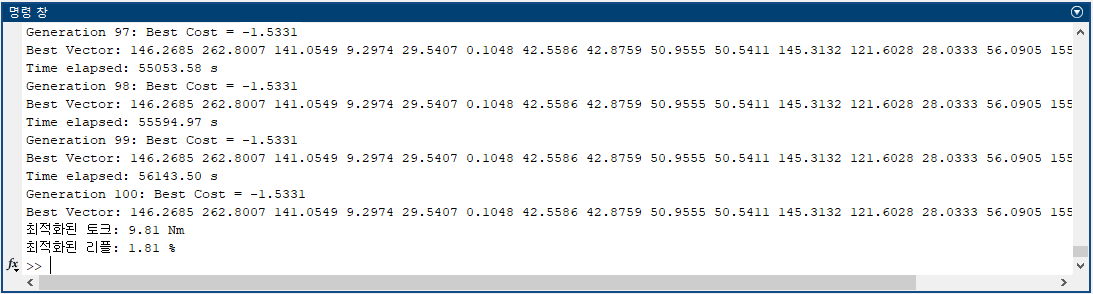
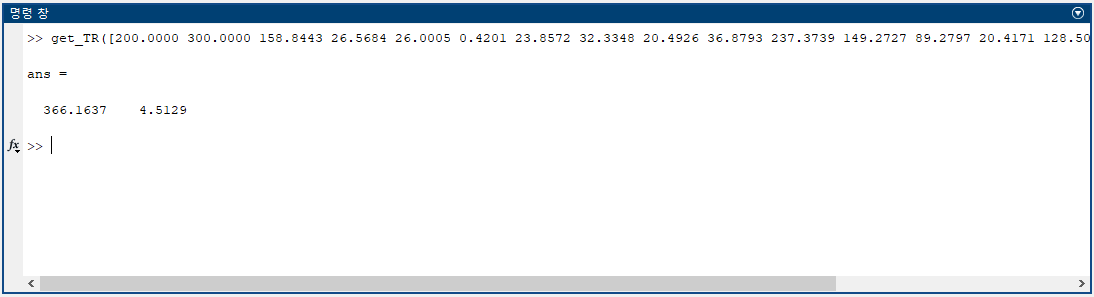
:TADA: Finish. No more update.

diff --git a/get_TR.m b/get_TR.m
@@ -85,7 +85,7 @@ function TR = get_TR(x)
 
         % 변화 없는 변수
         gamma=0; %전류각, SPM은 0도로 고정
-        N=12; %0도부터 360까지 몇번에 걸쳐 회전시킬지
+        N=4; %0도부터 360까지 몇번에 걸쳐 회전시킬지
 
         %%%%%%%%%%%%%%%%%%%%%%%%% 파일 저장 %%%%%%%%%%%%%%%%%%%%%%%%%%%%%%%%%%%%%%
 
@@ -108,7 +108,7 @@ function TR = get_TR(x)
         mi_addboundprop('A_0',0,0,0,0);	%도화지의 태두리 기본 설정
 
         %%%%%%%%%%%%%%%%%%%%%%%%   도화지 설정   %%%%%%%%%%%%%%%%%%%%%%%%%%%%%%%%
-        mi_probdef(0,'millimeters','planar',1e-009,depth,30); % 문제 단위와 형상 설정
+        mi_probdef(0,'millimeters','planar',1e-008,depth,30); % 문제 단위와 형상 설정
 
         square=1000;    % FEMM 도화지 크기
         drawrectangle(-square/2,-square/2,square/2,square/2);
@@ -223,20 +223,21 @@ function TR = get_TR(x)
 
         for i=1:slot_number
             if mod(i, 3)==1
-                add_label(coil_r*cos(pi/2+coil_angle+(slot_angle*(i-1))),coil_r*sin(pi/2+coil_angle+(slot_angle*(i-1))),'a+',0,20); %Coil 물성치
-                add_label(coil_r*cos(pi/2-coil_angle+(slot_angle*(i-1))),coil_r*sin(pi/2-coil_angle+(slot_angle*(i-1))),'a-',0,20); %Coil 물성치
+                add_label(coil_r*cos(pi/2+coil_angle-(slot_angle*(i-1))),coil_r*sin(pi/2+coil_angle-(slot_angle*(i-1))),'a+',0,20); %Coil 물성치
+                add_label(coil_r*cos(pi/2-coil_angle-(slot_angle*(i-1))),coil_r*sin(pi/2-coil_angle-(slot_angle*(i-1))),'a-',0,20); %Coil 물성치
             elseif mod(i, 3)==2
-                add_label(coil_r*cos(pi/2+coil_angle+(slot_angle*(i-1))),coil_r*sin(pi/2+coil_angle+(slot_angle*(i-1))),'b+',0,20); %Coil 물성치
-                add_label(coil_r*cos(pi/2-coil_angle+(slot_angle*(i-1))),coil_r*sin(pi/2-coil_angle+(slot_angle*(i-1))),'b-',0,20); %Coil 물성치
+                add_label(coil_r*cos(pi/2+coil_angle-(slot_angle*(i-1))),coil_r*sin(pi/2+coil_angle-(slot_angle*(i-1))),'b+',0,20); %Coil 물성치
+                add_label(coil_r*cos(pi/2-coil_angle-(slot_angle*(i-1))),coil_r*sin(pi/2-coil_angle-(slot_angle*(i-1))),'b-',0,20); %Coil 물성치
             else
-                add_label(coil_r*cos(pi/2+coil_angle+(slot_angle*(i-1))),coil_r*sin(pi/2+coil_angle+(slot_angle*(i-1))),'c+',0,20); %Coil 물성치
-                add_label(coil_r*cos(pi/2-coil_angle+(slot_angle*(i-1))),coil_r*sin(pi/2-coil_angle+(slot_angle*(i-1))),'c-',0,20); %Coil 물성치
+                add_label(coil_r*cos(pi/2+coil_angle-(slot_angle*(i-1))),coil_r*sin(pi/2+coil_angle-(slot_angle*(i-1))),'c+',0,20); %Coil 물성치
+                add_label(coil_r*cos(pi/2-coil_angle-(slot_angle*(i-1))),coil_r*sin(pi/2-coil_angle-(slot_angle*(i-1))),'c-',0,20); %Coil 물성치
             end
         end
 
         %%%%%%%%%%%%%%%%%%%%%%%%%%% 회전자계 만드는 함수 %%%%%%%%%%%%%%%%%%%%%%%%%%%%
 
-        T_list = []; %토크 결과 저장
+        T = zeros(N, 1);
+        T_list = zeros(N, 1); %토크 결과 저장
         for kk=1:N
 
             Jd=-J_rated*sin(gamma); %d축 전류밀도
@@ -264,7 +265,10 @@ function TR = get_TR(x)
             mo_groupselectblock(10); %로터 선택
 
             T(kk) = mo_blockintegral(22); %로터 토크 불러오기
-            T_list = [T_list; T(kk)]; %토크 결과 저장
+            if (kk > 1) && (T(kk) * T(kk-1) < 0) %토크가 앞뒤로 출렁이면
+                error('No negative torque.');
+                break;
+            end
 
             mo_close; %해석 결과 닫기, 설정창으로 복귀
 
@@ -275,17 +279,27 @@ function TR = get_TR(x)
 
         end
 
-        mean_T=mean(T_list); %로터 토크 평균값
-        R=100*(max(T_list)-min(T_list))/mean_T; %리플 계산
+        mean_T=mean(T); %로터 토크 평균값
+        R=100*(max(T)-min(T))/mean_T; %리플 계산
 
         TR=[mean_T, R]; % [T R] 형태로 출력
+        %T_list에 음수가 있으면 모터 시뮬레이션 실패로 간주
+        for t=1:length(T)
+            if T(t) < 0
+                TR=[-999999, 999999]; % 모터 시뮬레이션 실패 시 [-999999, 999999] 반환
+                break;
+            end
+        end
 
-        %plot for debug
+        % plot for debug
         % figure(1);
-        % plot(T_list,'r-','LineWidth',2); %토크 그래프
+        % plot(T,'r-','LineWidth',2); %토크 그래프
     
     catch exception
-        fprintf('Error: %s\n', exception.message);
+        % fprintf('Error: %s\n', exception.message);
         TR=[-999999, 999999]; % 모터 시뮬레이션 실패 시 [-999999, 999999] 반환
+        % plot for debug
+        % figure(1);
+        % plot(T,'r-','LineWidth',2); %토크 그래프
     end
 end

diff --git a/heuristic_optimization.m b/heuristic_optimization.m
@@ -15,6 +15,7 @@ function min_vector = heuristic_optimization(x)
     dimension = size(x, 1); % dimension: number of variables
     population = zeros(P, dimension); % 초기화된 개체군
     indiv_result = zeros(P, 1); % 개체군의 결과값 초기화
+    best_result = [-999999, 999999];
 
 
     %% 첫 개체군 생성; 랜덤
@@ -22,8 +23,9 @@ function min_vector = heuristic_optimization(x)
         is_valid = false; % 유효성 검사 플래그
         while ~is_valid
             volunteer = make_valid_input(x); % 유효한 입력 생성
-            result = objective_function(get_TR(volunteer)); % 결과값 계산
-
+            TR = get_TR(volunteer);
+            result = objective_function(TR); % 결과값 계산
+            
             if result < 1e10 && result > -100 % 유효한 개체인지 검사
                 population(i, :) = volunteer; % 유효한 개체군에 추가
                 indiv_result(i) = result; % 결과값 저장
@@ -31,6 +33,7 @@ function min_vector = heuristic_optimization(x)
             end
         end
         fprintf('Individual %d generated.\n', i); % 개체 생성 완료 메시지 출력
+        fprintf('T: %.4f, R: %.4f \n', TR(1), TR(2));
         fprintf('Time elapsed: %.2f s\n', toc); % 경과 시간 출력
         fprintf('\n');
     end
@@ -38,8 +41,10 @@ function min_vector = heuristic_optimization(x)
 
     [best_cost, best_index] = min(indiv_result); % 최적 비용과 인덱스 초기화
     best_vector = population(best_index, :); % 최적 벡터
+    best_result = get_TR(population(best_index, :));
 
     fprintf('Initial Population generated.\n');
+    fprintf('Best TR: %.4f, %.4f \n', best_result(1), best_result(2));
     fprintf('Time elapsed: %.2f s\n', toc); % 경과 시간 출력
     fprintf('\n')
 
@@ -88,6 +93,7 @@ function min_vector = heuristic_optimization(x)
                 if trial_cost < best_cost % trial 벡터가 최적 벡터보다 더 좋으면
                     best_cost = trial_cost; % 최적 비용 업데이트
                     best_vector = trial; % 최적 벡터 업데이트
+                    best_result = get_TR(trial); % 최적 결과
                 end
             end
         end
@@ -95,7 +101,9 @@ function min_vector = heuristic_optimization(x)
         fprintf('Time elapsed: %.2f s\n', elapsed_time);
         fprintf('Generation %d: Best Cost = %.4f\n', gen, best_cost); % 세대별 결과 출력
         fprintf('Best Vector: ');
-        fprintf('%.4f ', best_vector); % 최적 벡터 출력
+        fprintf('%.4f', best_vector); % 최적 벡터 출력
+        fprintf('\n');
+        fprintf('Best TR: %.4f, %.4f \n', best_result(1), best_result(2));
         fprintf('\n');
     end
     min_vector = best_vector;

diff --git a/launch_heuristic_motor_optimization.m b/launch_heuristic_motor_optimization.m
@@ -6,24 +6,24 @@ function launch_heuristic_motor_optimization()
     % x13: m_w[0..100], x14: m_th[0..100], x15: l_m[0..200], x16: J_rated[0..5], x17: use_35H440_in_teeth[0..1]
     % x18: use_35H440_in_rotor[0..1], x19: slot_number/3[1..4], x20: num_pole/2[1..12]
     
-    depth_min = 100; depth_max = 200;
-    r_so_min = 1; r_so_max = 300;
-    r_si_min = 1; r_si_max = 300;
+    depth_min = 200; depth_max = 200;
+    r_so_min = 300; r_so_max = 300;
+    r_si_min = 100; r_si_max = 300;
     th_core_min = 1; th_core_max = 30;
-    w_teeth_min = 1; w_teeth_max = 100;
+    w_teeth_min = 20; w_teeth_max = 100;
     slot_ratio_min = 0; slot_ratio_max = 1;
     shoe_1_min = 1; shoe_1_max = 100;
     shoe_2_min = 1; shoe_2_max = 100;
-    c_w_min = 1; c_w_max = 100;
-    c_h_min = 1; c_h_max = 100;
-    l_c_min = 1; l_c_max = 300;
-    r_rotor_outer_min = 1; r_rotor_outer_max = 300;
-    m_w_min = 1; m_w_max = 100;
-    m_th_min = 1; m_th_max = 100;
-    l_m_min = 1; l_m_max = 300;
-    J_rated_min = 1; J_rated_max = 5;
-    use_35H440_in_teeth_min = 0; use_35H440_in_teeth_max = 1;
-    use_35H440_in_rotor_min = 0; use_35H440_in_rotor_max = 1;
+    c_w_min = 20; c_w_max = 100;
+    c_h_min = 20; c_h_max = 100;
+    l_c_min = 100; l_c_max = 300;
+    r_rotor_outer_min = 50; r_rotor_outer_max = 300;
+    m_w_min = 30; m_w_max = 100;
+    m_th_min = 20; m_th_max = 100;
+    l_m_min = 20; l_m_max = 300;
+    J_rated_min = 5; J_rated_max = 5;
+    use_35H440_in_teeth_min = 1; use_35H440_in_teeth_max = 1;
+    use_35H440_in_rotor_min = 1; use_35H440_in_rotor_max = 1;
     slot_number_min = 1; slot_number_max = 6;
     num_pole_min = 1; num_pole_max = 10;
 
